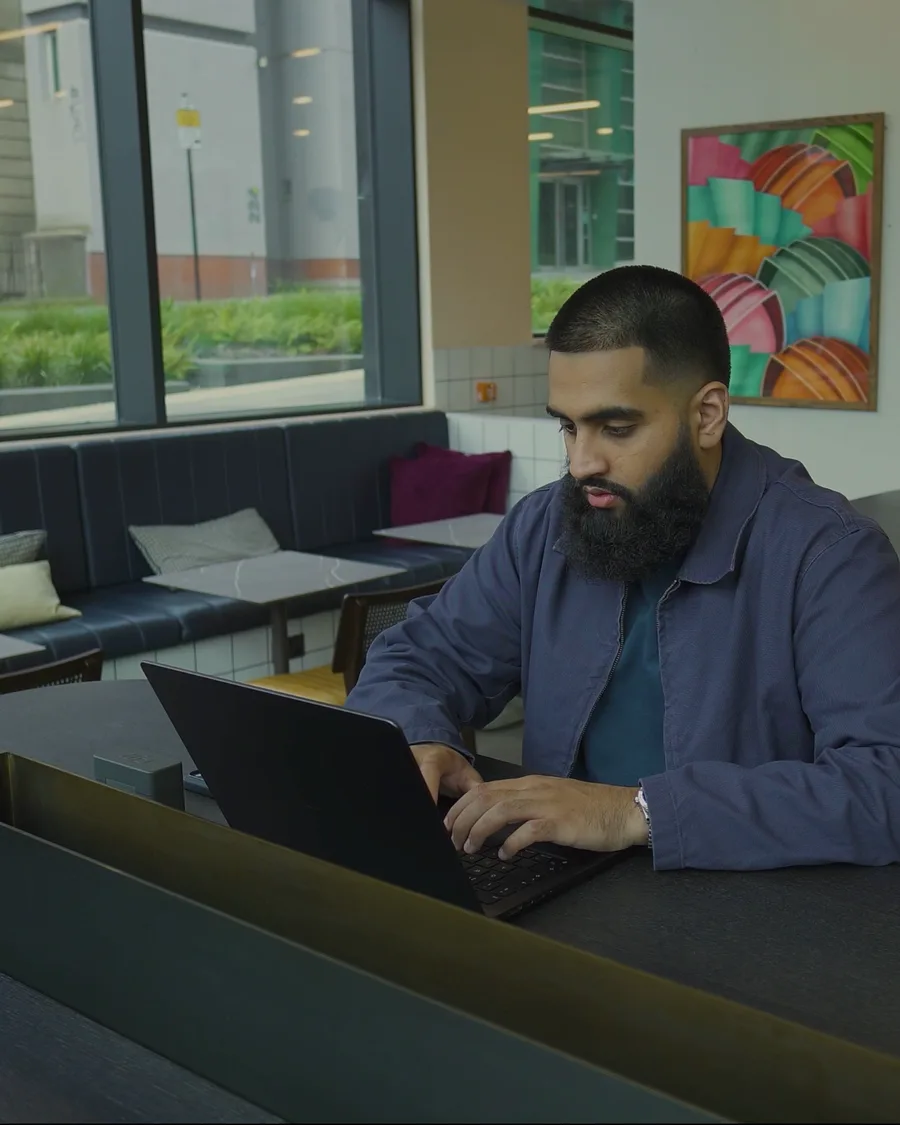
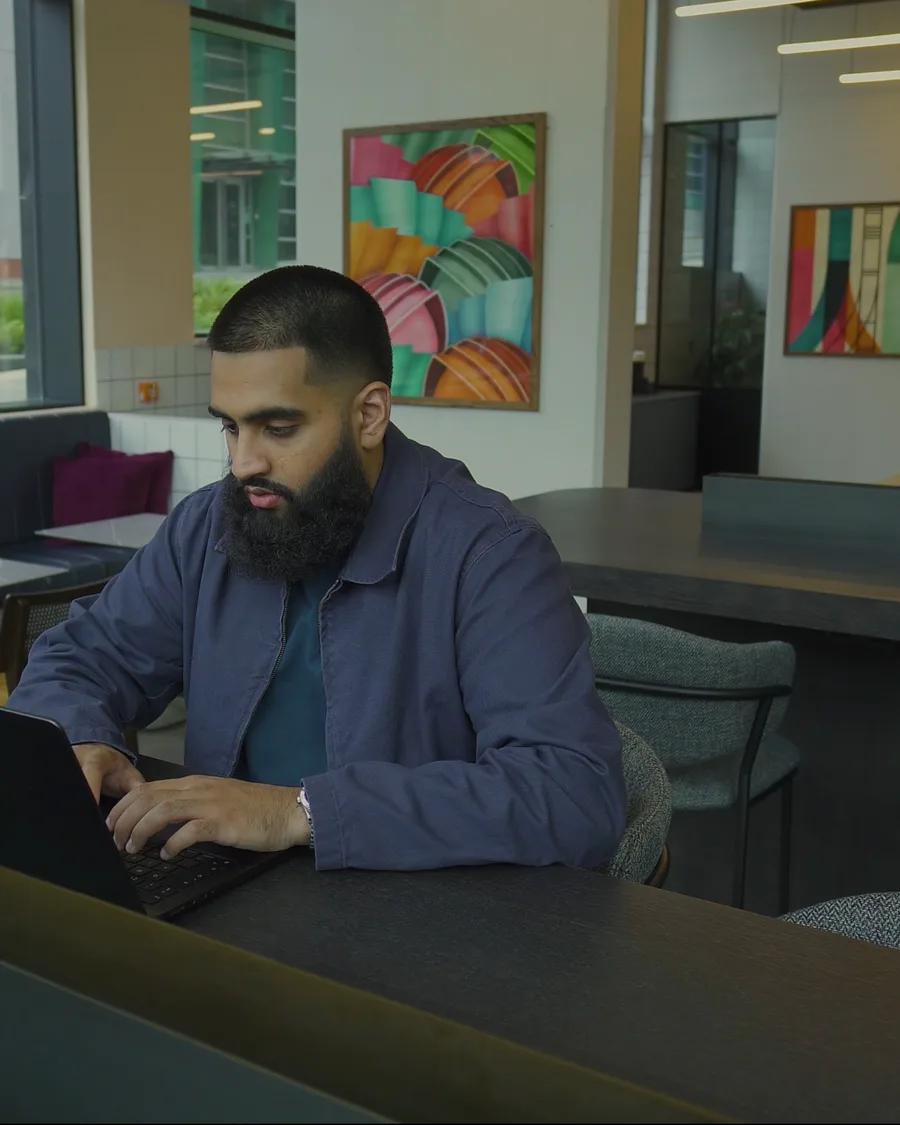
feat: founder photo-cards — full-bleed image as the card, white name strip, blue FLIP ME tag; Tayyib recrop anchored on subject

diff --git a/src/components/sections/Founders.tsx b/src/components/sections/Founders.tsx
@@ -20,6 +20,12 @@ const PHOTOS: Record<string, StaticImageData> = {
   "founder-2": riteshPhoto,
 };
 
+/* Where each portrait's face sits, so the wide card frame crops to it. */
+const OBJ_POS: Record<string, string> = {
+  "founder-1": "50% 26%",
+  "founder-2": "50% 42%",
+};
+
 function FounderCard({
   card,
 }: {
@@ -36,41 +42,34 @@ function FounderCard({
       className="flip-scene block w-full text-left"
     >
       <div className={`flip-inner h-[440px] ${flipped ? "flipped" : ""}`}>
-        {/* front */}
-        <div className="flip-face absolute inset-0 flex flex-col border border-line bg-bg p-6 transition-all duration-300 hover:border-accent hover:shadow-[4px_4px_0_rgba(43,85,176,0.12)]">
-          <p className="mb-4 font-mono text-[10px] tracking-[0.18em] text-ink-muted">
-            <span aria-hidden className="text-accent">
-              ●
-            </span>{" "}
-            {card.role}
-          </p>
+        {/* front: the photo IS the card */}
+        <div className="flip-face absolute inset-0 overflow-hidden border border-line bg-bg-dark transition-all duration-300 hover:border-accent hover:shadow-[4px_4px_0_rgba(43,85,176,0.12)]">
           {PHOTOS[card.id] ? (
-            <div className="relative flex-1 overflow-hidden border border-line">
-              <Image
-                src={PHOTOS[card.id]}
-                alt={card.name}
-                fill
-                sizes="(max-width: 768px) 90vw, 420px"
-                className="object-cover object-center"
-              />
-            </div>
+            <Image
+              src={PHOTOS[card.id]}
+              alt={card.name}
+              fill
+              sizes="(max-width: 768px) 90vw, 420px"
+              className="object-cover"
+              style={{ objectPosition: OBJ_POS[card.id] ?? "center" }}
+            />
           ) : (
-            <div className="grid flex-1 place-items-center border border-dashed border-line-strong">
-              <div className="text-center font-mono text-[11px] tracking-[0.18em] text-ink-muted">
-                <span className="mb-3 block text-3xl" aria-hidden>
-                  ◉
-                </span>
+            <div className="grid h-full place-items-center border border-dashed border-line-strong bg-bg">
+              <span className="font-mono text-[11px] tracking-[0.18em] text-ink-muted">
                 {card.photoLabel}
-              </div>
+              </span>
             </div>
           )}
-          <div className="mt-5 flex items-end justify-between gap-4">
-            {card.name && (
-              <h3 className="text-lg font-bold tracking-tight">{card.name}</h3>
-            )}
-            <span className="ml-auto font-mono text-[10px] tracking-[0.15em] text-accent">
-              {founders.flipHint} ⟳
-            </span>
+          <span className="absolute right-3 top-3 bg-accent px-2.5 py-1 font-mono text-[10px] tracking-[0.15em] text-accent-on">
+            {founders.flipHint} ⟳
+          </span>
+          <div className="absolute inset-x-0 bottom-0 bg-bg-dark/75 px-4 py-3">
+            <h3 className="text-lg font-bold tracking-tight text-white">
+              {card.name}
+            </h3>
+            <p className="mt-0.5 font-mono text-[10px] tracking-[0.18em] text-white/60">
+              {card.role}
+            </p>
           </div>
         </div>
         {/* back */}

diff --git a/src/content/site.ts b/src/content/site.ts
@@ -411,7 +411,7 @@ export const founders = {
   h2a: "This is not a course.",
   h2b: "It is the system our business runs on.",
   body: "We built every one of these systems for our own company first. The cohort does not teach you about them, it installs them. Click a card to meet us.",
-  flipHint: "CLICK TO FLIP",
+  flipHint: "FLIP ME",
   cards: [
     {
       id: "founder-1",
